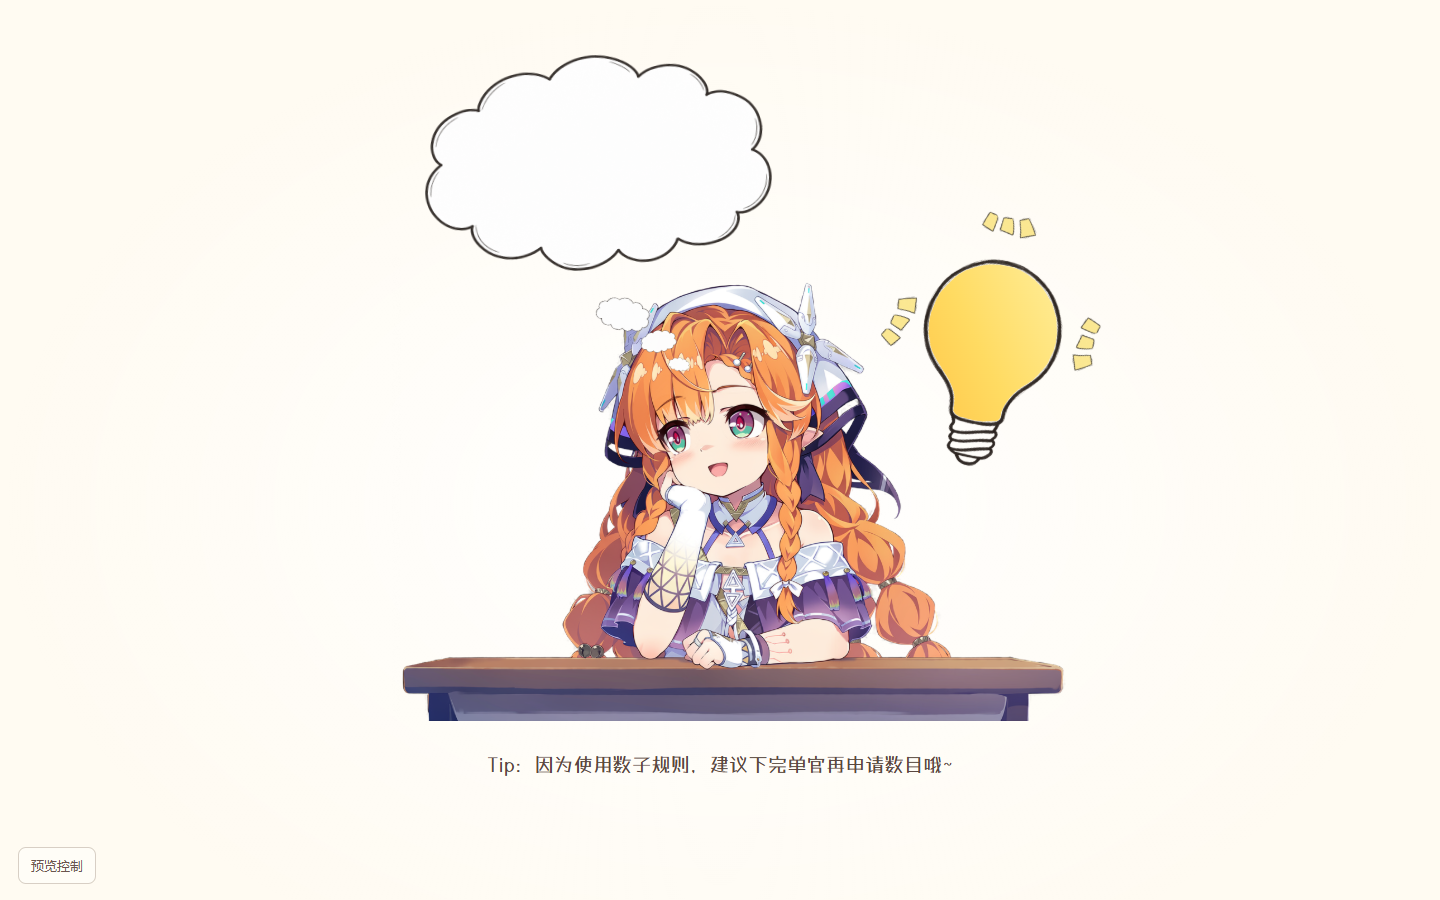
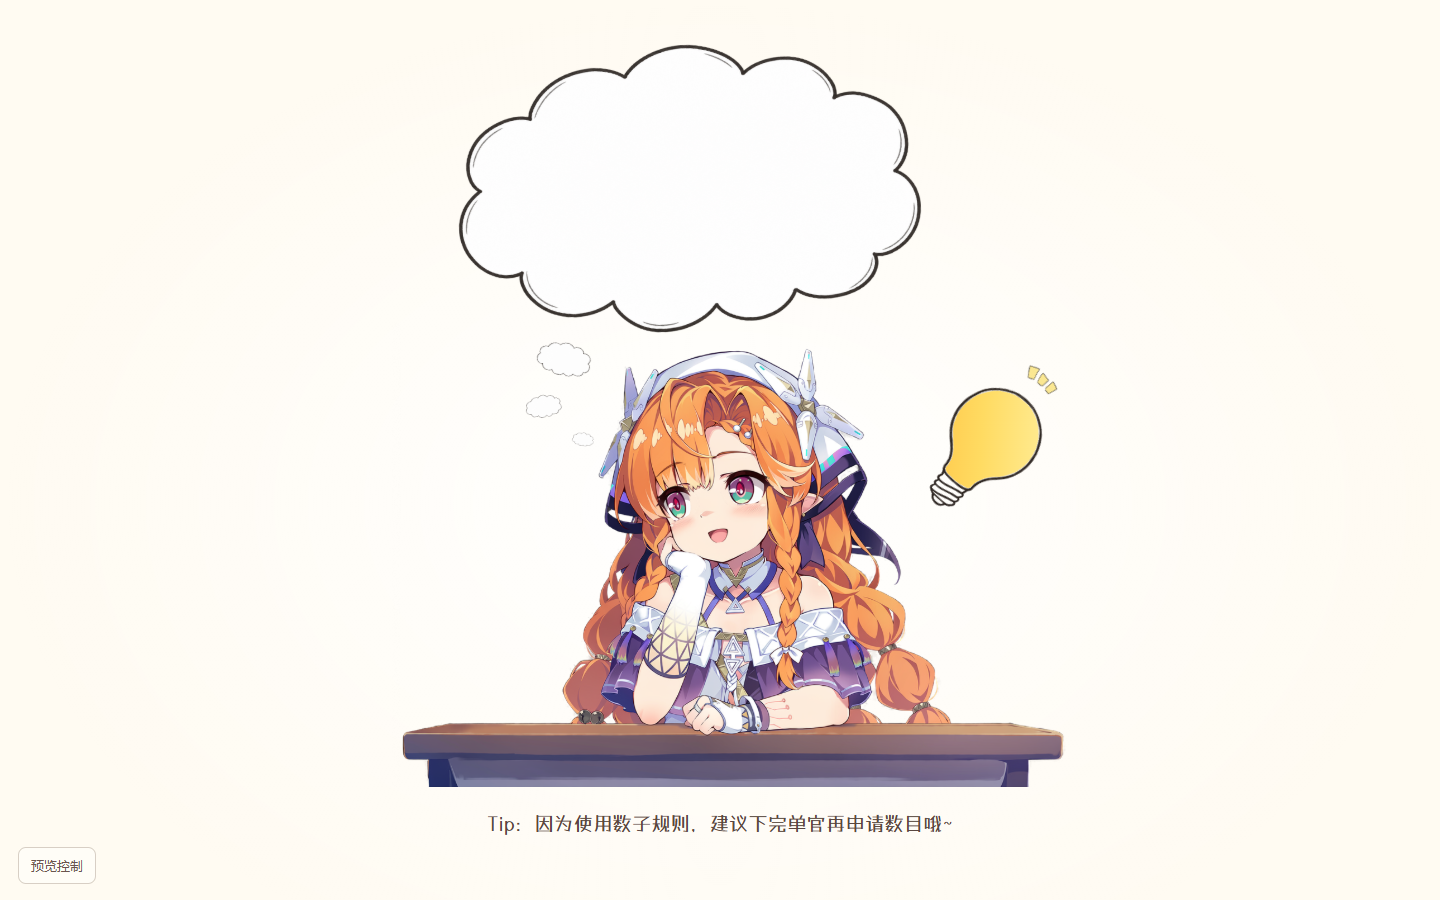
fix: refine loading bulb clouds and mobile preview

diff --git a/docs/design-samples/loading-page/loading-page.css b/docs/design-samples/loading-page/loading-page.css
@@ -3,28 +3,26 @@
 html,body{margin:0;min-height:100%;color:#3d2b25;background:#fffbf2;font-family:LoadingHand,"Microsoft YaHei",sans-serif}
 body{background-image:radial-gradient(ellipse at 50% 56%,#ffffff 0,transparent 70%)}
 button,input,summary{font:inherit}
-.thinking-loading{min-height:100vh;min-height:100dvh;display:grid;place-items:center;padding:24px 20px 64px;overflow-x:clip}
+.thinking-loading{min-height:100vh;min-height:100dvh;display:grid;place-items:center;padding:16px 20px 40px;overflow-x:clip}
 .loading-composition{width:min(1080px,calc((100dvh - 180px) * 1.22),100%);display:flex;flex-direction:column;align-items:center}
-.loading-art{width:100%;aspect-ratio:1100/860;position:relative;isolation:isolate}
-.loading-character{display:block;position:absolute;left:12.7%;top:31%;width:77.3%;height:auto;z-index:2;pointer-events:none}
-.thought-cloud{position:absolute;left:15.5%;top:0;width:41%;aspect-ratio:3/2;z-index:4;transform:rotate(-4deg)}
+.loading-art{width:100%;aspect-ratio:1100/950;position:relative;isolation:isolate}
+.loading-character{display:block;position:absolute;left:12.7%;top:38.5%;width:77.3%;height:auto;z-index:2;pointer-events:none}
+.thought-cloud{position:absolute;left:19%;top:0;width:54.6667%;aspect-ratio:3/2;z-index:4;transform:rotate(-4deg)}
 .thought-outline{display:block;width:100%;height:100%;object-fit:contain}
 .thought-content{position:absolute;left:18%;top:15%;width:64%;height:70%;display:grid;place-items:center;transform:rotate(4deg)}
 .thought-content img{display:block;width:100%;height:100%;object-fit:contain;max-width:100%;max-height:100%;border-radius:4px}
-.thought-link{position:absolute;height:auto;z-index:3;pointer-events:none}
-.thought-link-one{left:35.8%;top:36.8%;width:6.4%;transform:rotate(12deg)}
-.thought-link-two{left:40.9%;top:41.5%;width:4.2%;transform:rotate(-9deg)}
-.thought-link-three{left:44.1%;top:45.7%;width:2.5%;transform:rotate(8deg)}
-.inspiration-bulb{position:absolute;left:70.3%;top:29.2%;width:20.2%;aspect-ratio:3/4;z-index:5;transform:rotate(11deg);isolation:isolate}
+.thought-link{position:absolute;height:auto;z-index:1;pointer-events:none}
+.thought-link-one{left:29%;top:41%;width:6.4%;transform:rotate(12deg)}
+.thought-link-two{left:27.8%;top:48%;width:4.2%;transform:rotate(-9deg)}
+.thought-link-three{left:33.2%;top:53%;width:2.5%;transform:rotate(8deg)}
+.inspiration-bulb{position:absolute;left:73%;top:45%;width:13.4667%;aspect-ratio:3/4;z-index:5;transform:rotate(41deg);isolation:isolate}
 .bulb-outline{position:absolute;inset:0;width:100%;height:100%;object-fit:contain;pointer-events:none;z-index:2}
 .bulb-fill-mask{position:absolute;inset:0;mask:url('./assets/bulb-interior.png') center/100% 100% no-repeat;-webkit-mask:url('./assets/bulb-interior.png') center/100% 100% no-repeat}
 .bulb-fill{position:absolute;inset:0;width:100%;height:100%}
 .bulb-rays{position:absolute;width:25%;height:auto;opacity:0;visibility:hidden;pointer-events:none;z-index:3}
-.bulb-rays-left{left:-15%;top:25%;transform:rotate(22deg)}
-.bulb-rays-top{left:36%;top:-23%;transform:rotate(95deg)}
-.bulb-rays-right{right:-16%;top:21%;transform:rotate(188deg)}
+.bulb-rays-top{left:36%;top:-23%;transform:rotate(275deg)}
 .is-complete .bulb-rays{opacity:1;visibility:visible}
-.loading-tip{margin:18px 0 0;width:min(760px,95%);font-size:clamp(16px,1.35vw,20px);line-height:1.75;text-align:center;overflow-wrap:anywhere;min-height:3.5em;color:#5a4740}
+.loading-tip{margin:18px 0 0;width:min(760px,95%);font-size:clamp(16px,1.35vw,20px);line-height:1.75;text-align:center;overflow-wrap:anywhere;min-height:2em;color:#5a4740}
 .preview-tools{position:fixed;z-index:20;bottom:16px;left:18px;max-width:calc(100vw - 36px);color:#6a554d;font-family:"Microsoft YaHei",sans-serif;font-size:13px}
 .preview-tools summary{cursor:pointer;padding:9px 12px;border:1px solid #d8cfc5;border-radius:8px;background:#fffdf7;list-style:none;user-select:none}
 .preview-tools summary::-webkit-details-marker{display:none}
@@ -41,19 +39,19 @@ button,input,summary{font:inherit}
 @media(max-width:600px){
  .thinking-loading{padding:20px 12px 76px}
  .loading-composition{width:100%;max-width:480px}
- .loading-art{aspect-ratio:440/570}
- .loading-character{left:-2%;top:47%;width:104%}
- .thought-cloud{left:2%;top:1%;width:72%}
- .thought-link-one{left:29%;top:35%;width:11%}
- .thought-link-two{left:36%;top:40.3%;width:7%}
- .thought-link-three{left:41%;top:44.2%;width:4.8%}
- .inspiration-bulb{left:70%;top:38.3%;width:25.5%;transform:rotate(10deg)}
+ .loading-art{aspect-ratio:440/650}
+ .loading-character{left:-2%;top:49%;width:104%}
+ .thought-cloud{left:4%;top:1%;width:96%}
+ .thought-link-one{left:18%;top:45%;width:11%}
+ .thought-link-two{left:17%;top:51%;width:7%}
+ .thought-link-three{left:25%;top:55.3%;width:4.8%}
+ .inspiration-bulb{left:77%;top:49%;width:17%;transform:rotate(40deg)}
  .loading-tip{width:98%;margin-top:18px;font-size:16px;line-height:1.7;min-height:3.4em}
  .preview-tools{bottom:10px;left:12px}
 }
 @media(max-width:600px) and (max-height:700px){
  .thinking-loading{padding-top:10px;align-items:start}
- .loading-composition{width:min(100%,calc((100dvh - 180px) * .77))}
+ .loading-composition{width:min(100%,calc((100dvh - 180px) * .677))}
  .loading-tip{width:min(340px,calc(100vw - 28px));min-width:min(340px,calc(100vw - 28px));margin-top:12px}
 }
 @media(prefers-reduced-motion:reduce){*{scroll-behavior:auto}}

diff --git a/docs/system-design.html b/docs/system-design.html
@@ -53,6 +53,7 @@
 </head>
 <body>
 <h1>SigrikaGo 系统设计</h1>
+<p>思考立绘加载样板第二轮调整了构图：灯泡宽度缩为原来的 2/3，并增加顺时针 30 度；漫画发光标记仅保留灯泡头部上方一组，相对初版转 180 度。大云朵增宽 1/3 并略向右移，三枚小云朵沿角色左侧空白绕行，不覆盖角色实像；等待期间按独立随机路径缓慢浮动，满载暂停在当前偏移，减少动态效果时停止浮动。手机端独立预览入口为 <code>docs/design-samples/loading-page-mobile.html</code>，桌面中使用真实 390×844 嵌入视口，手机上铺满可用屏幕；桌面和手机截图随样板更新，运行时边界不变。</p>
 <p>加载页的新思考立绘样板入口为 <code>docs/design-samples/loading-page.html</code>：角色居中使用已校验的透明眨眼 WebP，左上方大云朵预留死活题图片位置，三枚分开的小云朵连接角色；右侧手绘灯泡以真实透明内腔遮罩承载黄色渐变，从左下向右上填充，满载显示块状发光标记并切换恍然大悟静态表情。完成画面及 Tip 停止变化，2 秒后发出 <code>loading:complete</code> 事件，样板停留在完成状态直至重播。仅保留现有 <code>preloadTips</code> 的文字格式与 10 秒轮换，放于桌下；默认文案取自 <code>DEFAULT_SITE_SETTINGS</code>，正式接入时应读取后台实时配置。样板包含进度与本地题图预览控制，适配桌面、手机竖屏及紧凑横屏，尊重减少动态效果设置；现有启动、对局、教学和黑化状态的运行时加载逻辑暂不替换。素材与运行说明见同目录 <code>loading-page/README.md</code>。</p>
 <p>教学与首页引导的固定头像框、独立正文纸片沿用原对话框的角色主题色：浅色渐变、角色色描边与轻外光，姓名用主题色混合深墨色，正文保持深色。首页优先读取角色 <code>palette</code>，兼容 <code>color</code>，并把配色传入独立头像层；头像裁切、框尺寸、动态打字和正文增高保持原布局。</p>
 <p>本地开发的 API 代理在后端启动或重启导致连接拒绝、连接重置时，返回带 <code>dev_backend_unavailable</code> 的 JSON 503，避免空响应被误报为 JSON 格式错误。公告列表、详情与未读摘要的 GET 请求仅对该明确错误码自动重试三次，依次等待 250、500、1000 毫秒；持续失败显示服务暂不可用并保留手动重试，已读标记等 POST 不自动重放，其他服务错误或畸形 JSON 仍直接报告。开发环境遇到公告响应格式异常时仅记录请求路径、状态码和 Content-Type，供追踪具体失败接口，不记录令牌或响应正文。</p>

diff --git a/docs/design-samples/loading-page/loading-page.js b/docs/design-samples/loading-page/loading-page.js
@@ -15,6 +15,34 @@
   let progress = 0;
   let tipIndex = 1 % Math.max(1,tips.length);
   let puzzleUrl = '';
+  const cloudAnimations = new Map();
+  const cloudElements = [...document.querySelectorAll('.thought-cloud, .thought-link')];
+
+  function floatCloud(element,index) {
+    const range = index===0 ? 5 : 2;
+    const point = () => `${(Math.random()-.5)*range*2}px ${(Math.random()-.5)*range*1.4}px`;
+    const motion = element.animate([
+      {translate:'0px 0px'}, {translate:point()},
+      {translate:point()}, {translate:'0px 0px'}
+    ],{duration:6000+Math.random()*3000,easing:'ease-in-out',fill:'both'});
+    cloudAnimations.set(element,motion);
+    motion.onfinish = () => {
+      if (progress<100) floatCloud(element,index);
+    };
+  }
+
+  function syncCloudMotion(next) {
+    if (reducedMotion) return;
+    if (next===100) {
+      for (const motion of cloudAnimations.values()) motion.pause();
+      return;
+    }
+    cloudElements.forEach((element,index) => {
+      const motion = cloudAnimations.get(element);
+      if (!motion || motion.playState==='finished') floatCloud(element,index);
+      else if (motion.playState==='paused') motion.play();
+    });
+  }
 
   function showTip() {
     const text = String(tips[tipIndex] || '').trim().replace(/^Tip\s*[:：]\s*/i,'');
@@ -32,6 +60,7 @@
     output.value = `${Math.round(next)}%`;
     slider.value = String(Math.round(next));
     root.classList.toggle('is-complete',next===100);
+    syncCloudMotion(next);
     const image = next===100 ? './loading-page/assets/character-complete.png'
       : reducedMotion ? './loading-page/assets/character-open.png'
       : './loading-page/assets/loading-blink.webp';
@@ -85,7 +114,7 @@
     image.alt='围棋死活题';
     document.querySelector('#puzzle-slot').replaceChildren(image);
   });
-  window.addEventListener('pagehide',() => {stop();window.clearTimeout(completeTimer);if(puzzleUrl)URL.revokeObjectURL(puzzleUrl);});
+  window.addEventListener('pagehide',() => {stop();window.clearTimeout(completeTimer);for(const motion of cloudAnimations.values())motion.cancel();if(puzzleUrl)URL.revokeObjectURL(puzzleUrl);});
   showTip();
   const requested=new URLSearchParams(location.search).get('progress');
   if (requested!==null) setProgress(requested); else play();

diff --git a/docs/design-samples/loading-page-mobile.html b/docs/design-samples/loading-page-mobile.html
@@ -1,0 +1,15 @@
+<!doctype html>
+<html lang="zh-CN">
+<head>
+  <meta charset="utf-8">
+  <meta name="viewport" content="width=device-width,initial-scale=1">
+  <title>SigrikaGo · 手机加载页样板</title>
+  <style>
+    *{box-sizing:border-box}html,body{margin:0;min-height:100%;background:#eee9e2}
+    body{min-height:100dvh;display:grid;place-items:center;padding:24px}
+    iframe{display:block;width:392px;height:846px;max-width:100%;border:1px solid #d8cfc5;border-radius:24px;background:#fffbf2;box-shadow:0 10px 40px #3d2b2514}
+    @media(max-width:600px){body{padding:0}iframe{width:100vw;height:100dvh;border:0;border-radius:0;box-shadow:none}}
+  </style>
+</head>
+<body><iframe title="手机端加载页预览" src="./loading-page.html"></iframe></body>
+</html>

diff --git a/docs/design-samples/loading-page.html b/docs/design-samples/loading-page.html
@@ -29,9 +29,7 @@
             </svg>
           </div>
           <img class="bulb-outline" src="./loading-page/assets/bulb.png" alt="" draggable="false" aria-hidden="true">
-          <img class="bulb-rays bulb-rays-left" src="./loading-page/assets/rays.png" alt="" aria-hidden="true">
           <img class="bulb-rays bulb-rays-top" src="./loading-page/assets/rays.png" alt="" aria-hidden="true">
-          <img class="bulb-rays bulb-rays-right" src="./loading-page/assets/rays.png" alt="" aria-hidden="true">
         </div>
       </section>
       <p class="loading-tip" id="tip" aria-live="polite"></p>

diff --git a/docs/design-samples/loading-page/README.md b/docs/design-samples/loading-page/README.md
@@ -2,6 +2,10 @@
 
 Open `docs/design-samples/loading-page.html` through a static server rooted at the repository. The current local preview is `http://127.0.0.1:5179/docs/design-samples/loading-page.html`.
 
+The dedicated phone preview is `docs/design-samples/loading-page-mobile.html`, locally `http://127.0.0.1:5179/docs/design-samples/loading-page-mobile.html`. On desktop it embeds the same sample at a real 390×844 viewport; on a phone it fills the available screen. Updated desktop and phone captures are `preview-desktop.png` and `preview-mobile.png` in this directory.
+
+The refined cloud is one third wider and slightly farther right; its connectors curve through empty space to the character's left, with no opaque sprite overlap. The bulb is two thirds of its previous width and adds 30 degrees clockwise rotation: 41 degrees on desktop, 40 on phones. Only one comic glow cluster remains above its head, flipped 180 degrees from its previous orientation. Large and small clouds gently drift along independently randomized 6–9 second paths while waiting; completion pauses their current positions during the 2-second still hold. Reduced motion disables cloud movement as well as blinking.
+
 The standalone sample follows the requested new loading composition: blinking character centered above the original table, a large thought cloud above and to the left, three separate smaller clouds, a hand-drawn lightbulb beside the head and only the existing tip text below the table. The cloud is intentionally empty until a life-and-death problem image is provided. Preview controls allow a local image to be shown in the slot; that file is never uploaded.
 
 The bulb glass chamber starts transparent. A yellow gradient is clipped by an alpha mask derived from the generated ink contour; a diagonal half-plane reveals the fill from bottom left to top right. At 100%, rays appear and the character switches to the approved still expression. The scene and tip remain still. After exactly 2000 ms, the composition dispatches a bubbling `loading:complete` event; the sample remains on its finished state until replay. Production navigation can consume that event when the design is integrated.
@@ -22,7 +26,7 @@ Final prompt set:
 
 1. Cloud: one large standalone hand-drawn thought-cloud bubble, irregular scalloped oval with about ten puffy lobes; slightly wobbly warm charcoal ink and occasional pencil echo; white interior with a large blank center for a future Go puzzle; landscape 3:2; transparent background; no text, stones, characters, tail or extra clouds.
 2. Bulb: one upright classic lightbulb, circular pear-shaped chamber and small screw base, warm charcoal hand-drawn contour; glass and base interior genuinely transparent; no filament, rays, lettering, shadows or colored fill; portrait 3:4 with margins. The generated asset is 1086×1448; `bulb-interior.png` is a derived RGBA alpha mask for the chamber only.
-3. Rays: edit the supplied reference to create three separated irregular chunky trapezoid yellow emission marks; soft buttery yellow fill, thin wobbly charcoal pencil contour; remove the white background; retain transparent gaps; no stars, lightning bolt, bulb or text. Repeat and rotate this cluster around the completed bulb.
+3. Rays: edit the supplied reference to create three separated irregular chunky trapezoid yellow emission marks; soft buttery yellow fill, thin wobbly charcoal pencil contour; remove the white background; retain transparent gaps; no stars, lightning bolt, bulb or text. The final composition uses one cluster above the completed bulb, rotated 180 degrees relative to the initial sample.
 
 This is a visual prototype, following the repository's existing design-sample convention. It does not replace `AssetPreloadScreen`, alter startup or battle timing, connect APIs, or change the tutorial/corruption loading contracts.
 

diff --git a/docs/system-design.md b/docs/system-design.md
@@ -1,5 +1,7 @@
 # SigrikaGo 系统设计
 
+思考立绘加载样板第二轮调整了构图：灯泡宽度缩为原来的 2/3，并增加顺时针 30 度；漫画发光标记仅保留灯泡头部上方一组，相对初版转 180 度。大云朵增宽 1/3 并略向右移，三枚小云朵沿角色左侧空白绕行，不覆盖角色实像；等待期间按独立随机路径缓慢浮动，满载暂停在当前偏移，减少动态效果时停止浮动。手机端独立预览入口为 `docs/design-samples/loading-page-mobile.html`，桌面中使用真实 390×844 嵌入视口，手机上铺满可用屏幕；桌面和手机截图随样板更新，运行时边界不变。
+
 加载页的新思考立绘样板入口为 `docs/design-samples/loading-page.html`：角色居中使用已校验的透明眨眼 WebP，左上方大云朵预留死活题图片位置，三枚分开的小云朵连接角色；右侧手绘灯泡以真实透明内腔遮罩承载黄色渐变，从左下向右上填充，满载显示块状发光标记并切换恍然大悟静态表情。完成画面及 Tip 停止变化，2 秒后发出 `loading:complete` 事件，样板停留在完成状态直至重播。仅保留现有 `preloadTips` 的文字格式与 10 秒轮换，放于桌下；默认文案取自 `DEFAULT_SITE_SETTINGS`，正式接入时应读取后台实时配置。样板包含进度与本地题图预览控制，适配桌面、手机竖屏及紧凑横屏，尊重减少动态效果设置；现有启动、对局、教学和黑化状态的运行时加载逻辑暂不替换。素材与运行说明见同目录 `loading-page/README.md`。
 
 教学与首页引导的固定头像框、独立正文纸片沿用原对话框的角色主题色：浅色渐变、角色色描边与轻外光，姓名用主题色混合深墨色，正文保持深色。首页优先读取角色 `palette`，兼容 `color`，并把配色传入独立头像层；头像裁切、框尺寸、动态打字和正文增高保持原布局。

diff --git a/.trellis/spec/frontend/loading-art-prototype.md b/.trellis/spec/frontend/loading-art-prototype.md
@@ -8,6 +8,9 @@ The independent loading design sample lives at `docs/design-samples/loading-page
 - Intermediate progress: a diagonal half-plane reveals a yellow gradient from bottom left toward top right, clipped by the chamber shape.
 - One hundred percent: show the approved still character, reveal the rays, stop tip rotation and keep the entire composition still. Dispatch `loading:complete` after 2000 ms. Resetting progress before the hold expires cancels that event.
 - Reduced motion uses the static waiting sprite. The Go problem slot stays empty until a real image is supplied; local sample selection uses an object URL rather than an upload.
+- Only one comic glow-mark cluster appears above the bulb head. The corrected cluster is flipped 180 degrees from the initial sample; no side clusters remain.
+- Cloud movement uses independently randomized small translations while progress is below 100. Completion pauses the current animation time rather than returning to an origin, avoiding a visible snap; resetting progress resumes movement. Reduced motion disables it. Route connectors outside the sprite silhouette and budget their maximum drift, not only their static positions.
+- `loading-page-mobile.html` embeds the same composition at a real 390×844 iframe viewport on desktop; a phone displays it edge to edge. Deliver both desktop and phone preview links/captures when refining this surface.
 
 ## Mask and geometry validation
 `prepare-assets.py` derives the interior from the bulb ink contour. Save the result as **RGBA with zero alpha outside the chamber**, not a grayscale PNG: CSS image masks default to alpha, so an opaque grayscale image would fill the entire bounding rectangle. The mask must exclude the screw base and canvas exterior.
